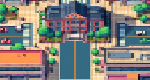
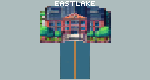
Fixed text.

diff --git a/Overworld.py b/Overworld.py
@@ -83,7 +83,7 @@ class Overworld():
         self.cricketroom2.add_obstacles([self.obstacle13, self.obstacle9, self.obstacle14, self.obstacle15, self.obstacle16])
         
         # create the fifth room with obstacles in level 1 which is a Biome object
-        self.cricketroom3 = Biome("cricketroom3", "floor1/cricketroom3.png", [Exit(screen_width, 200, self.cricketroom1, "right", self.right_width, self.H_height), Exit(screen_width, 600, self.cricketroom1, "right", self.right_width, self.H_height)], [], False)
+        self.cricketroom3 = Biome("cricketroom3", "floor1/cricketroom3.png", [Exit(screen_width, 200, self.cricketroom1, "right", self.right_width, self.H_height), Exit(screen_width, 600, self.cricketroom1, "right", self.right_width, self.H_height)], [("TO UNLOCK THE NEXT ROOM, KILL THE MONSTERS.", 310, 670)], False)
         self.obstacle17 = Obstacles("test_object1.png", 0, screen_height-155, screen_width, 155)
         self.obstacle18 = Obstacles("test_object1.png", screen_width-600, 290, 600, 200)
         self.cricketroom3.add_obstacles([self.obstacle7, self.obstacle8, self.obstacle17, self.obstacle16, self.obstacle18])
@@ -361,7 +361,7 @@ class Overworld():
         # initialize the fourth level (school themed)
         
         # create the first room in level 4 which is a Biome object
-        self.schoolroom1 = Biome("schoolroom1", "floor4/schoolroom1.png", [], [("NOW, HAVING ASSEBMLED THE", 10, 505), ("RECIPE, IT IS TIME TO DELIVER THE", 10, 555), ("SAMOSAS TO MR. PURI AT EASTLAKE.", 10, 605), ("HOPEFULLY, THE LEGENDS HOLD", 945, 505), ("TRUE AND HE CHANGES", 945, 555), ("YOUR GRADE.", 945, 605)], False)
+        self.schoolroom1 = Biome("schoolroom1", "floor4/schoolroom1.png", [], [("NOW, HAVING ASSEMBLED THE", 10, 505), ("RECIPE, IT IS TIME TO DELIVER THE", 10, 555), ("SAMOSAS TO MR. PURI AT", 10, 605), ("EASTLAKE.", 10, 655), ("HOPEFULLY, THE LEGENDS HOLD", 945, 505), ("TRUE AND HE CHANGES", 945, 555), ("YOUR GRADE.", 945, 605)], False)
         self.left_side4 = Obstacles("test_object1.png", 0, 0, 630, screen_height)
         self.right_side4 = Obstacles("test_object1.png", 925, 0, screen_width-925, screen_height)
         self.bottom4 = Obstacles("test_object1.png", 660, 790, 950-660, 10)
@@ -809,7 +809,7 @@ class Overworld():
             for t in previous_text:
                 screen.blit(t[0], t[1])
                 pygame.display.update()
-            text = self.font.render(words[0:i], True, (0, 0, 0))
+            text = self.font.render(words[0:i], True, (255, 255, 255))
             text_rect = text.get_rect()
             text_rect = (start_x, start_y)
             screen.blit(text, text_rect)
